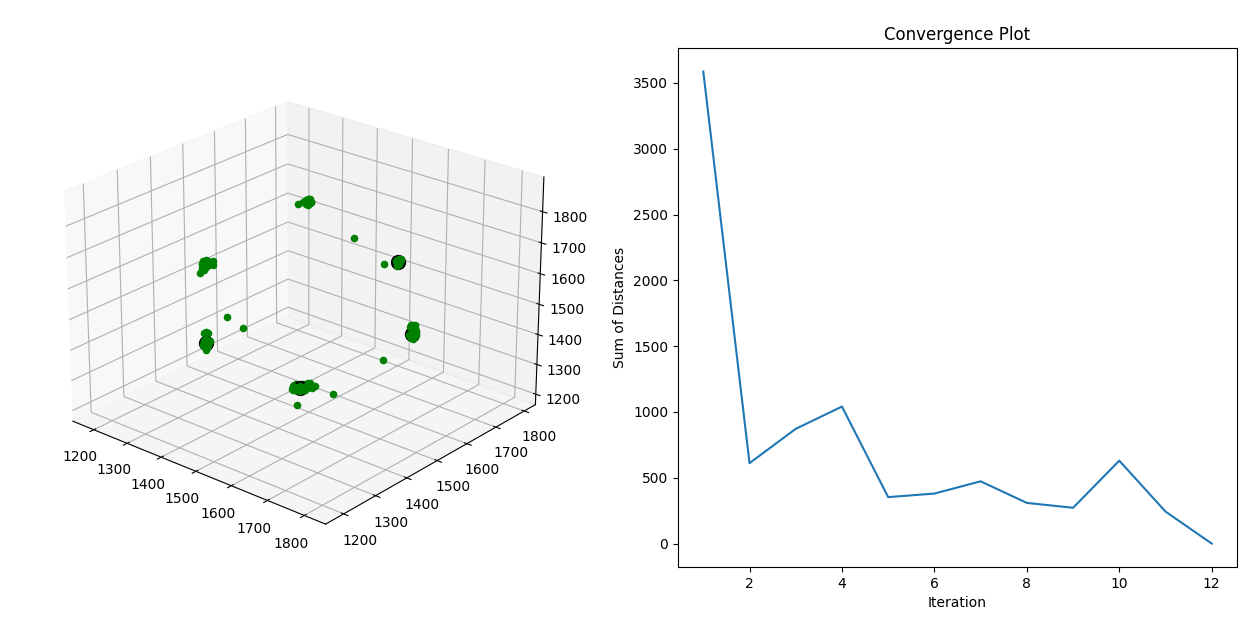
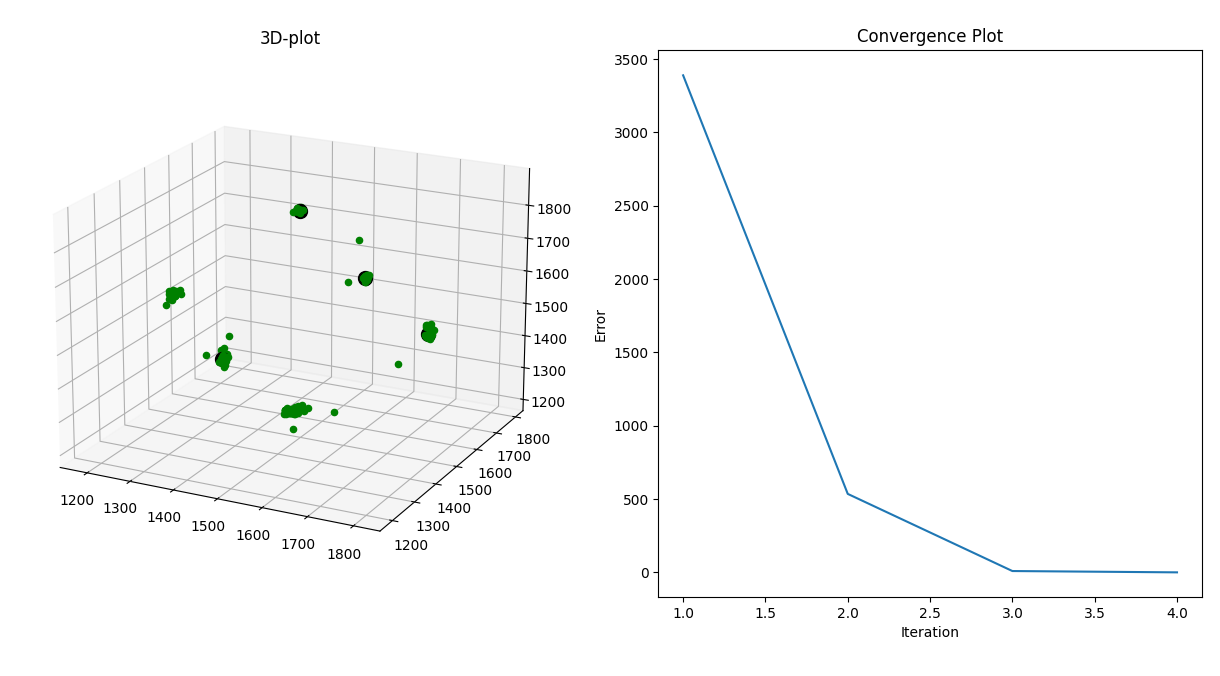
uusi kuva ja kmeans plottien muutoksia

diff --git a/kmeans/kmeans.py b/kmeans/kmeans.py
@@ -80,6 +80,7 @@ with open("TL_Project_Week6/src/datapoints.h", 'w') as file:
 
 fig = plt.figure(figsize=(10, 5))
 ax1 = fig.add_subplot(121, projection='3d')
+ax1.set_title('3D-plot')
 
 # Plot data points in each cluster
 for i in range(data.shape[0]):
@@ -93,7 +94,7 @@ for i in range(4):
 ax2 = fig.add_subplot(122)
 ax2.plot(iterations, convergence)
 ax2.set_xlabel('Iteration')
-ax2.set_ylabel('Sum of Distances')
+ax2.set_ylabel('Error')
 ax2.set_title('Convergence Plot')
 
 plt.tight_layout()
